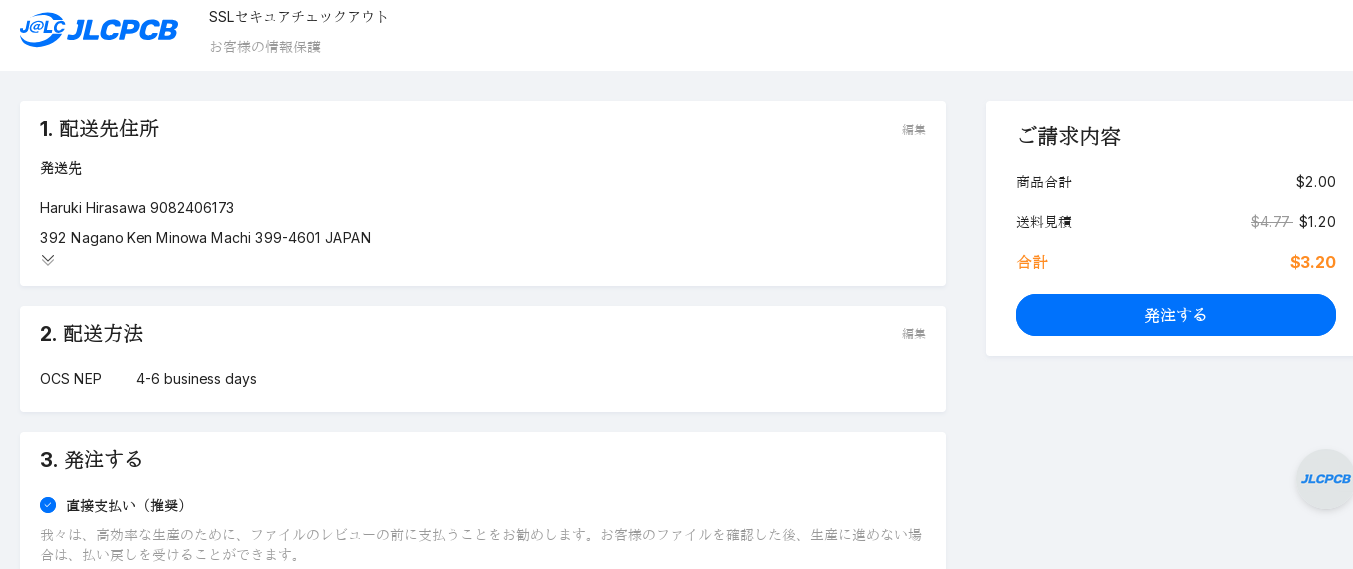
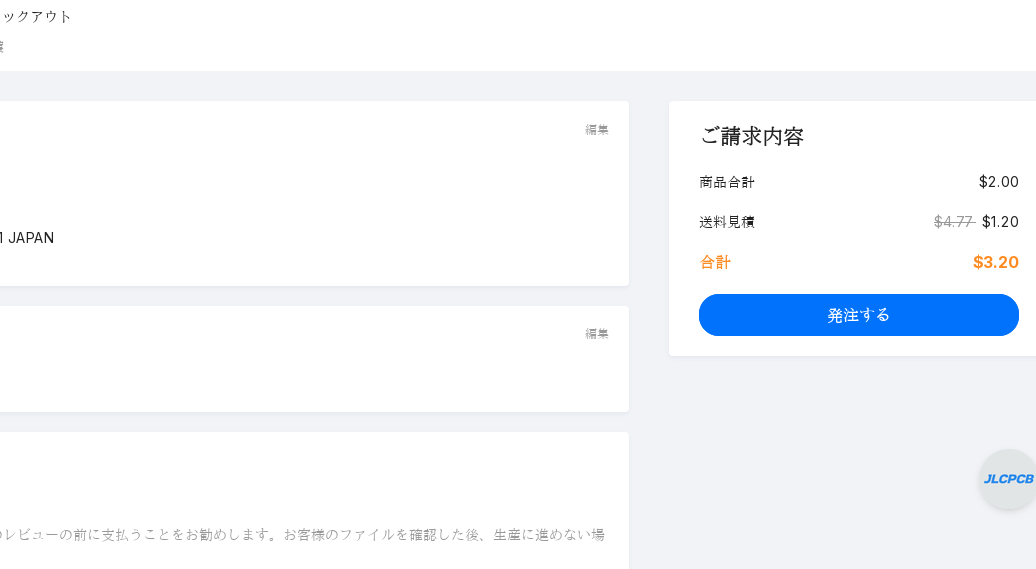
Created LCSC and Aliexpress estimates

diff --git a/JOURNAL.md b/JOURNAL.md
@@ -70,5 +70,17 @@ Since I’m entering everything manually based on the BOM, it’s quite time-con
 Also, I’ll add a screenshot of the “Journal” feature—the previous one only showed the front side.
 
 ![PCB](./screenshots/pcb3.png)
-![JLCPCB Estimate1](./screenshots/jlcpcb-ship.png)
+![JLCPCB Estimate1](./screenshots/jlcpcb-shipping.png)
 ![JLCPCB Estimate2](./screenshots/jlcpcb-estimate.png)
+**Total time spent: 4 hours**
+
+# 6/1: Created quotes from LCSC and Aliexpress
+Today, I requested quotes from LCSC and AliExpress.
+Now that I’m ready to place the order, all I can do is hope it passes the review process.
+
+![LCSC Estimate1](./screenshots/lcsc-estimate.png)
+![LCSC Estimate2](./screenshots/lcsc-shipping-1.png)
+![LCSC Estimate3](./screenshots/lcsc-shipping-2.png)
+![Aliexpress Estimate1](./screenshots/aliexpress-1.png)
+![Aliexpress Estimate2](./screenshots/aliexpress-2.png)
+**Total time spent: 3 hours**
